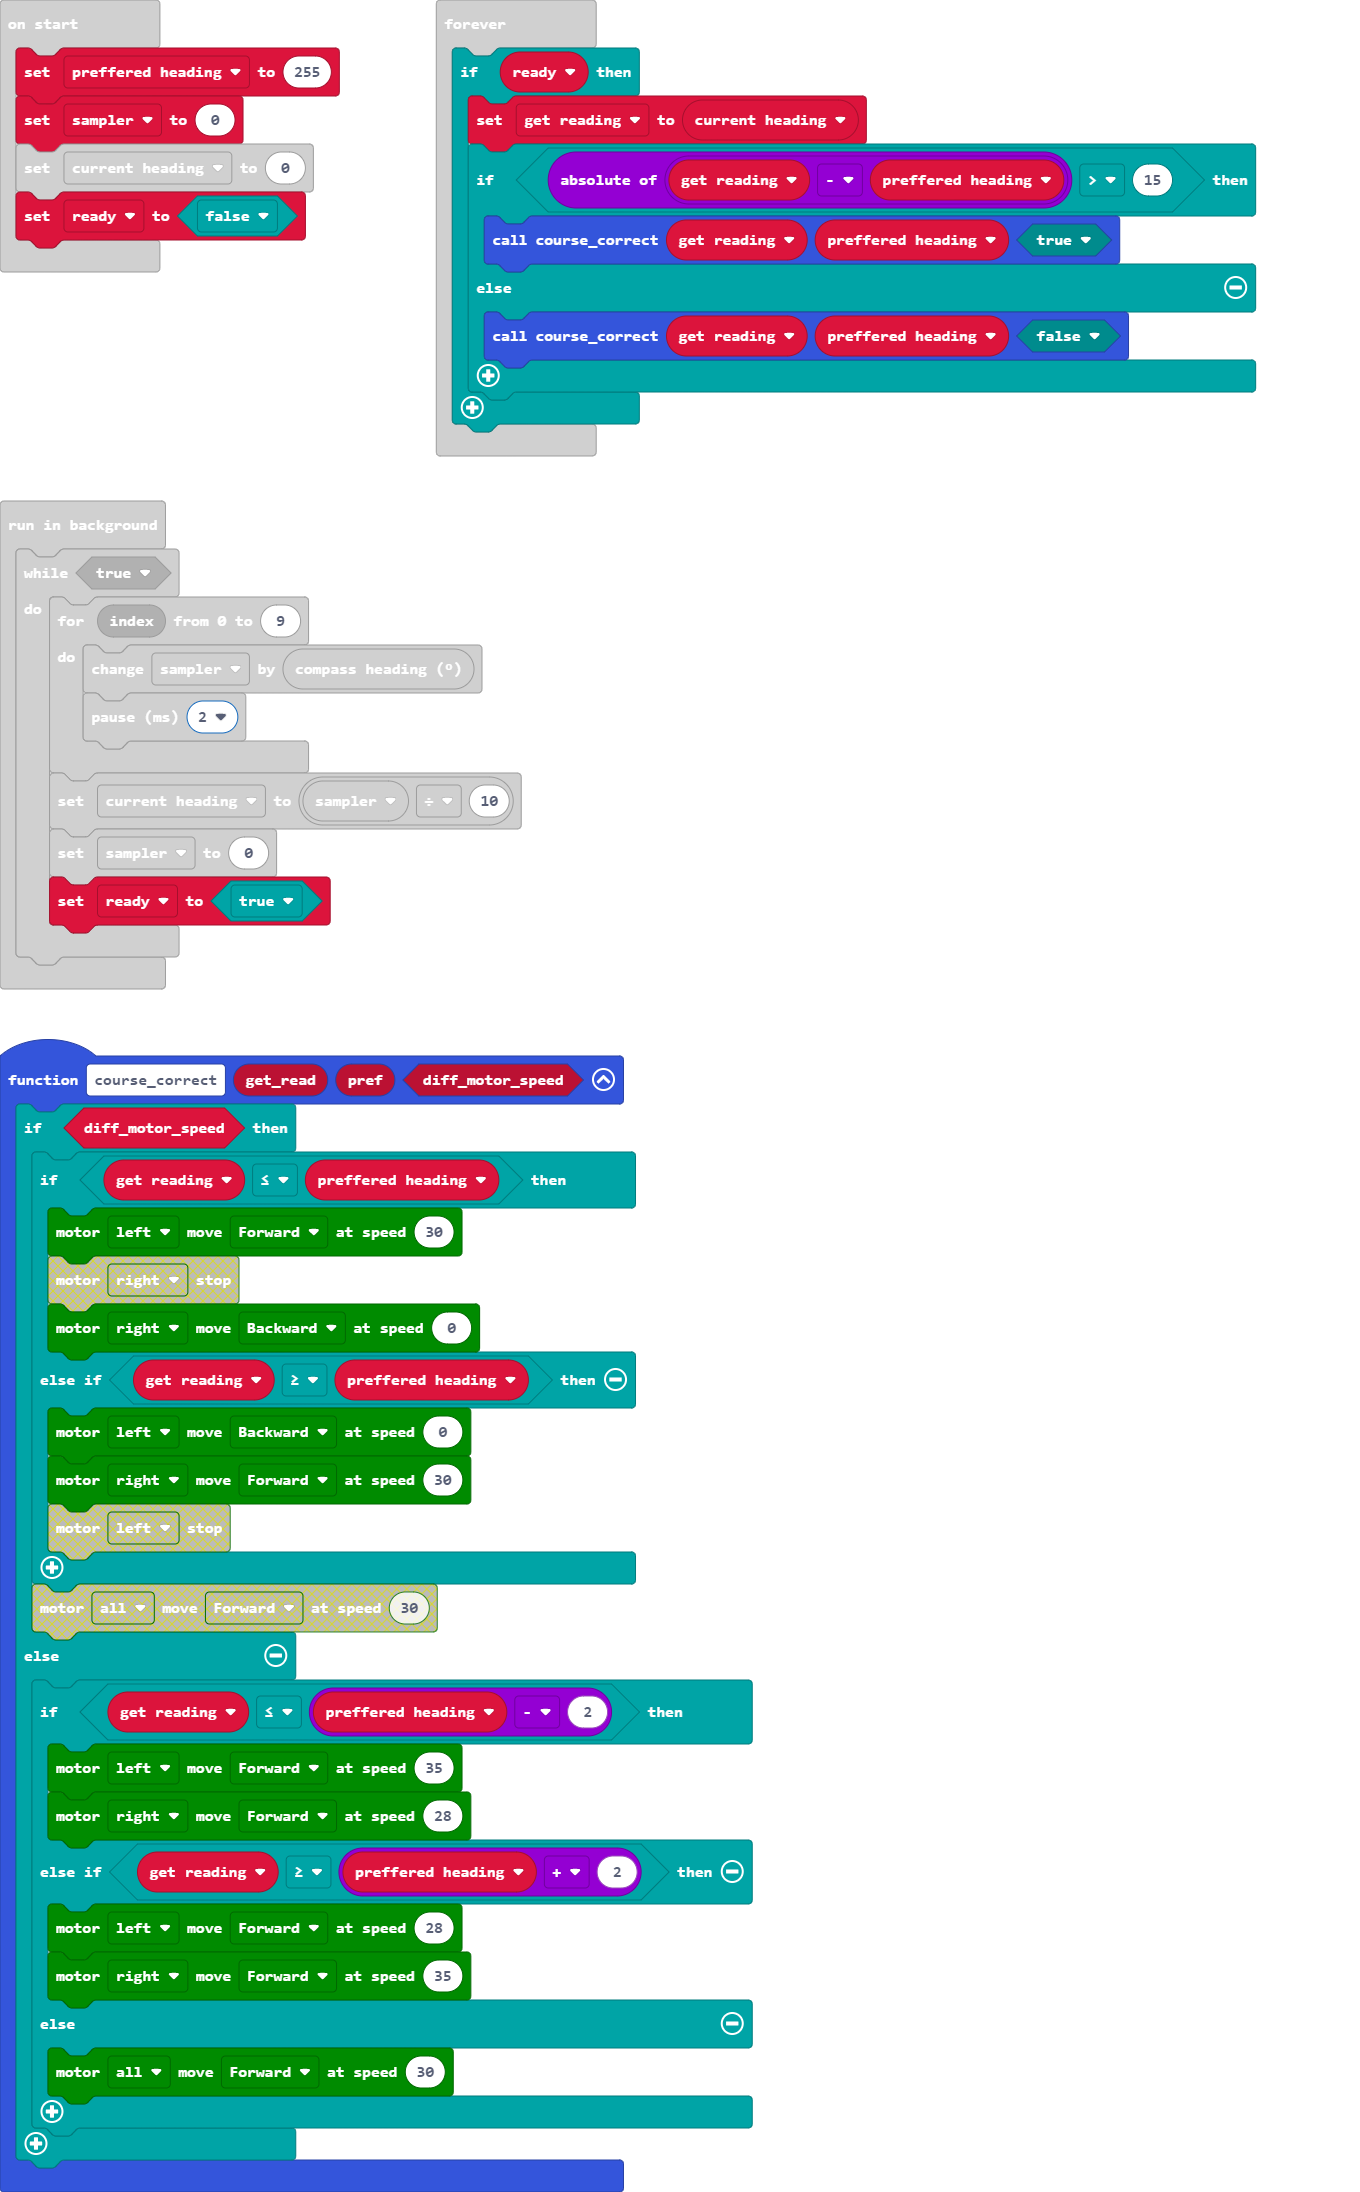
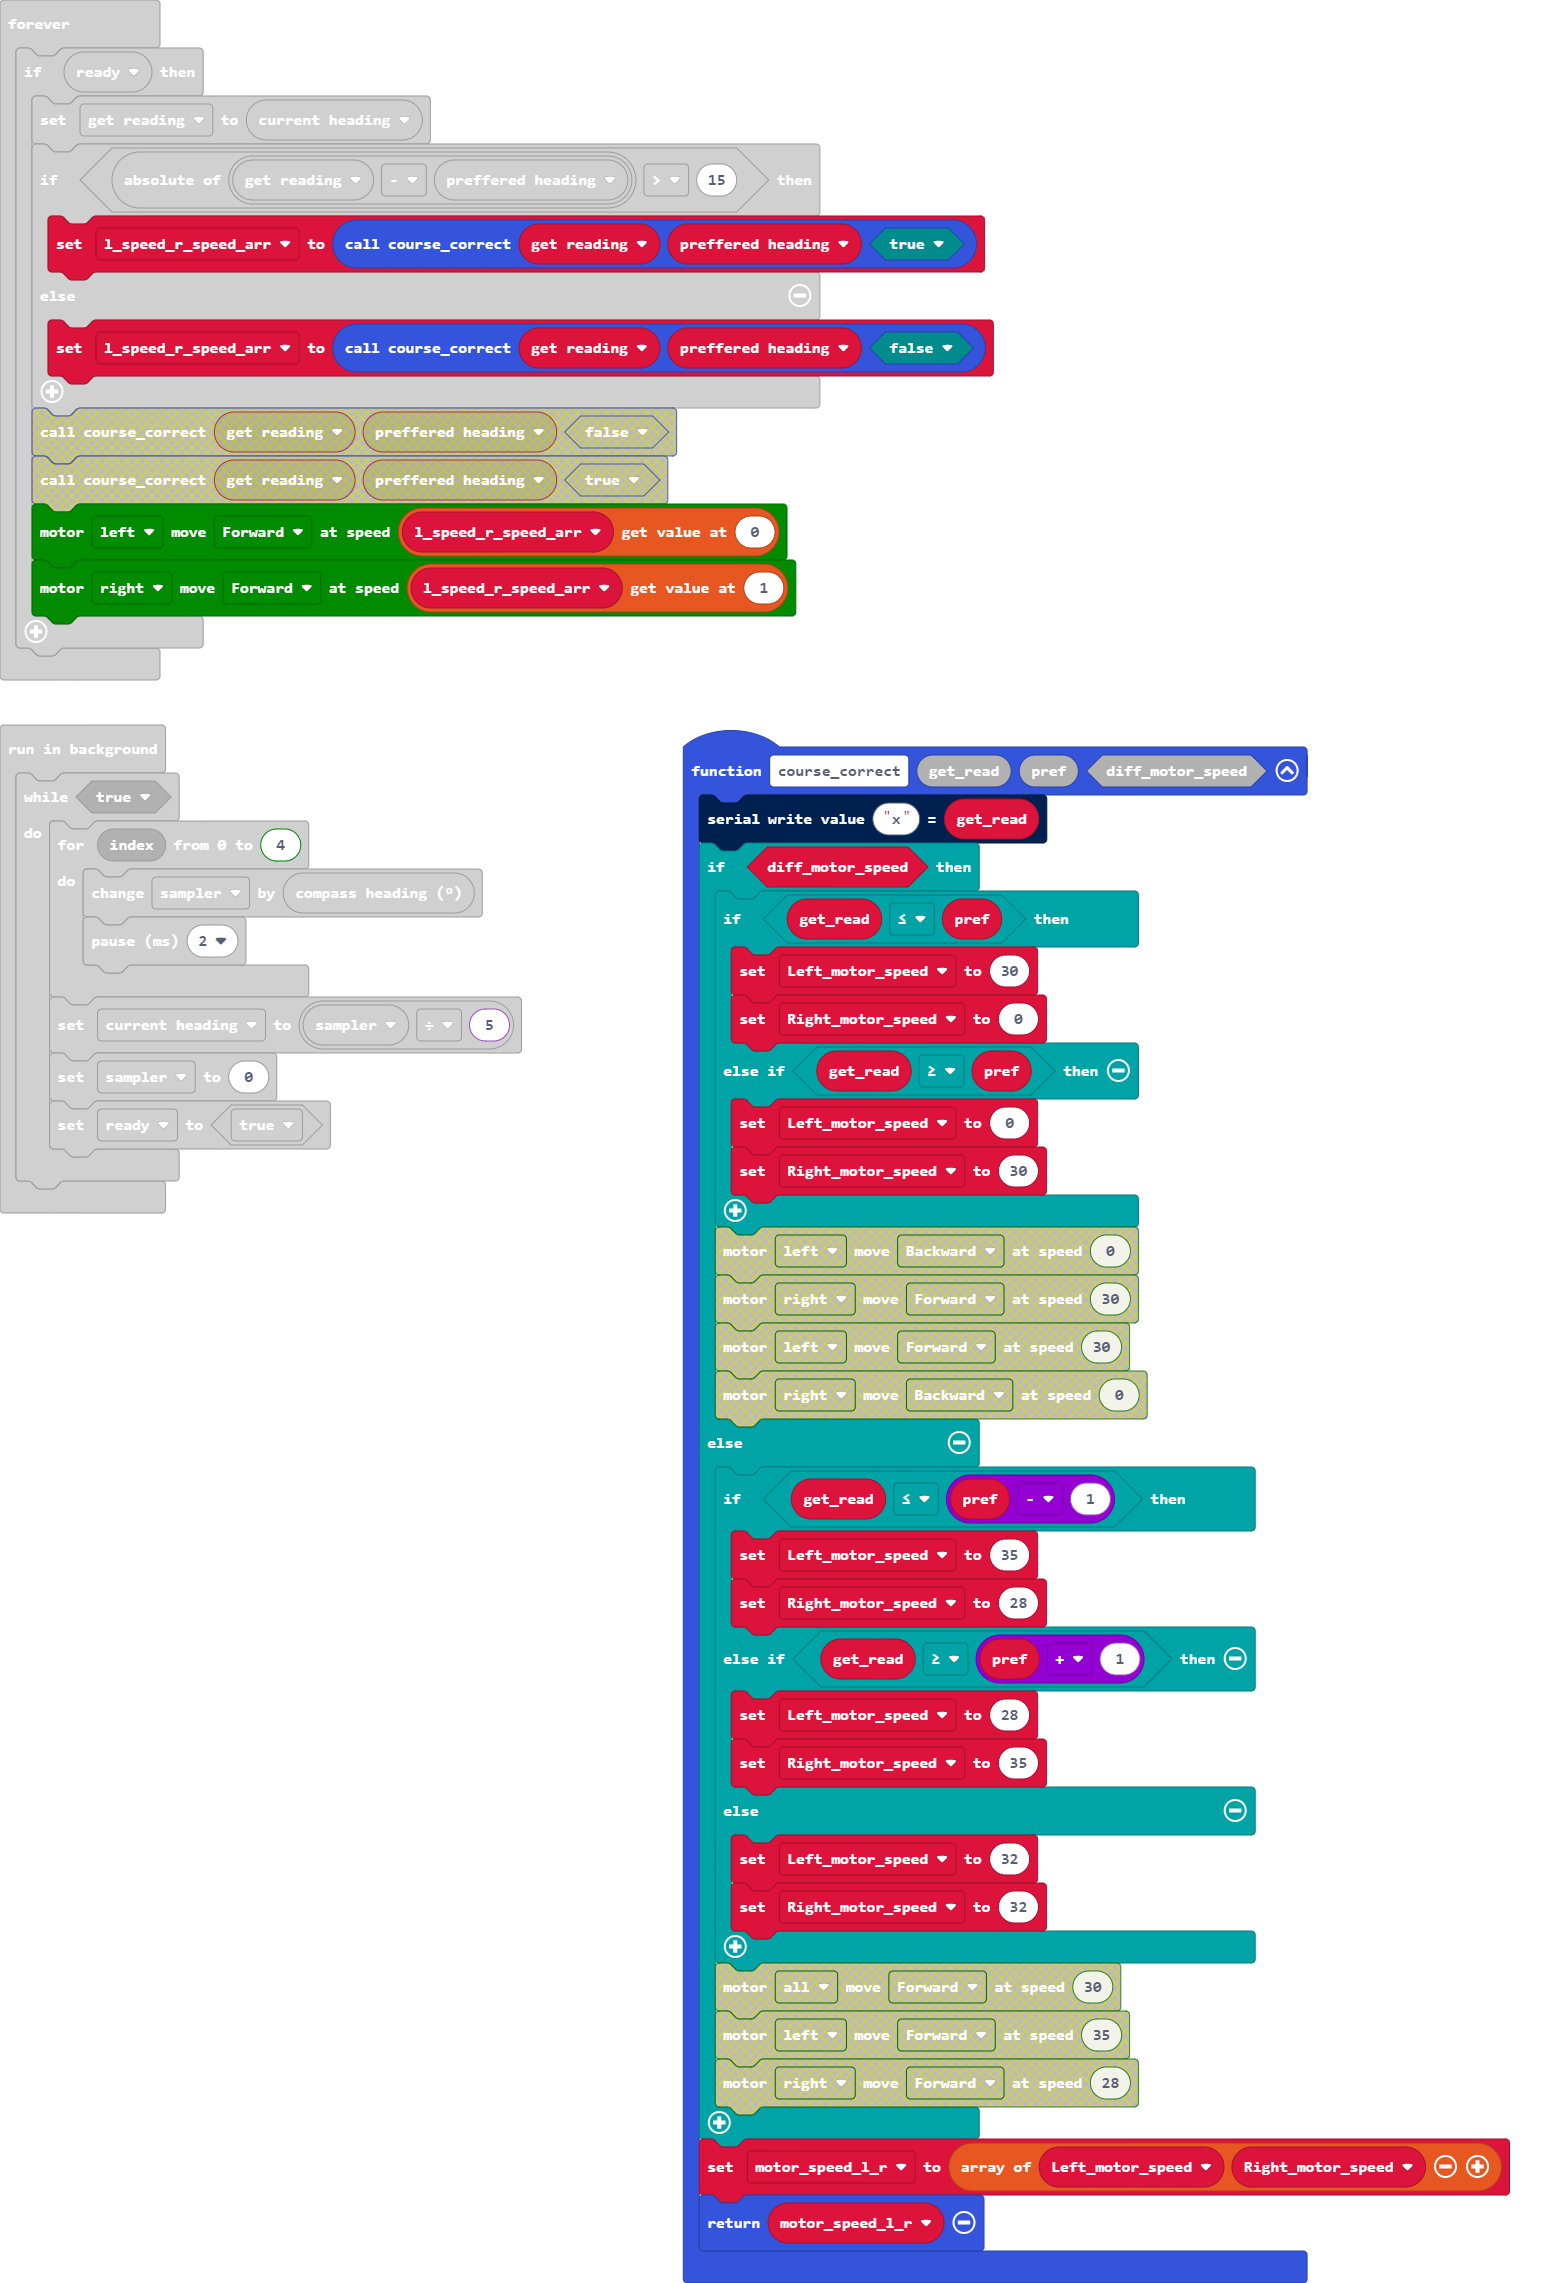
made it as functions with values passed

diff --git a/main.ts b/main.ts
@@ -11,27 +11,35 @@ input.onButtonPressed(Button.B, function () {
     }
 })
 function course_correct (get_read: number, pref: number, diff_motor_speed: boolean) {
+    serial.writeValue("x", get_read)
     if (diff_motor_speed) {
-        if (get_reading <= preffered_heading) {
-            maqueen.motorRun(maqueen.Motors.M1, maqueen.Dir.CW, 30)
-            maqueen.motorRun(maqueen.Motors.M2, maqueen.Dir.CCW, 0)
-        } else if (get_reading >= preffered_heading) {
-            maqueen.motorRun(maqueen.Motors.M1, maqueen.Dir.CCW, 0)
-            maqueen.motorRun(maqueen.Motors.M2, maqueen.Dir.CW, 30)
+        if (get_read <= pref) {
+            Left_motor_speed = 30
+            Right_motor_speed = 0
+        } else if (get_read >= pref) {
+            Left_motor_speed = 0
+            Right_motor_speed = 30
         }
     } else {
-        if (get_reading <= preffered_heading - 2) {
-            maqueen.motorRun(maqueen.Motors.M1, maqueen.Dir.CW, 35)
-            maqueen.motorRun(maqueen.Motors.M2, maqueen.Dir.CW, 28)
-        } else if (get_reading >= preffered_heading + 2) {
-            maqueen.motorRun(maqueen.Motors.M1, maqueen.Dir.CW, 28)
-            maqueen.motorRun(maqueen.Motors.M2, maqueen.Dir.CW, 35)
+        if (get_read <= pref - 1) {
+            Left_motor_speed = 35
+            Right_motor_speed = 28
+        } else if (get_read >= pref + 1) {
+            Left_motor_speed = 28
+            Right_motor_speed = 35
         } else {
-            maqueen.motorRun(maqueen.Motors.All, maqueen.Dir.CW, 30)
+            Left_motor_speed = 32
+            Right_motor_speed = 32
         }
     }
+    motor_speed_l_r = [Left_motor_speed, Right_motor_speed]
+    return motor_speed_l_r
 }
+let l_speed_r_speed_arr: number[] = []
 let get_reading = 0
+let motor_speed_l_r: number[] = []
+let Right_motor_speed = 0
+let Left_motor_speed = 0
 let preffered_heading = 0
 preffered_heading = 255
 let sampler = 0
@@ -41,19 +49,21 @@ basic.forever(function () {
     if (ready) {
         get_reading = current_heading
         if (Math.abs(get_reading - preffered_heading) > 15) {
-            course_correct(get_reading, preffered_heading, true)
+            l_speed_r_speed_arr = course_correct(get_reading, preffered_heading, true)
         } else {
-            course_correct(get_reading, preffered_heading, false)
+            l_speed_r_speed_arr = course_correct(get_reading, preffered_heading, false)
         }
+        maqueen.motorRun(maqueen.Motors.M1, maqueen.Dir.CW, l_speed_r_speed_arr[0])
+        maqueen.motorRun(maqueen.Motors.M2, maqueen.Dir.CW, l_speed_r_speed_arr[1])
     }
 })
 control.inBackground(function () {
     while (true) {
-        for (let index = 0; index <= 9; index++) {
+        for (let index = 0; index <= 4; index++) {
             sampler += input.compassHeading()
             basic.pause(2)
         }
-        current_heading = sampler / 10
+        current_heading = sampler / 5
         sampler = 0
         ready = true
     }
